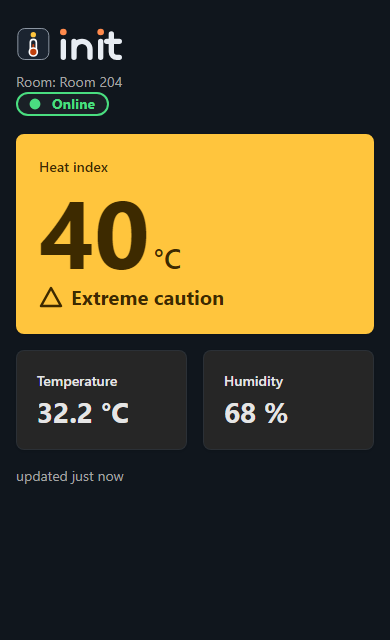
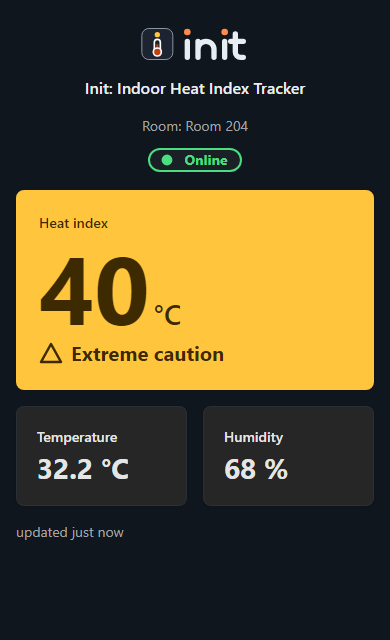
P04-05 design: centred header with title line and more space, README check skips dist

diff --git a/design/pwa/header.html b/design/pwa/header.html
@@ -36,7 +36,7 @@
   <path stroke="#e8edf3" stroke-width="16" stroke-linecap="round" stroke-linejoin="round" fill="none" d="M20 52V100M52 52V100M52 76A24 24 0 0 1 100 76V100M132 52V100M164 30V84A16 16 0 0 0 180 100H188M150 52H188"/>
   <circle cx="20" cy="24" r="10" fill="#ff8a4c"/><circle cx="132" cy="24" r="10" fill="#ff8a4c"/>
 </g>
-</svg></span></span><h1 class="visually-hidden">Init</h1><p class="text-secondary">Room: Room 204</p>
+</svg></span></span><h1 class="app-fullname">Init: Indoor Heat Index Tracker</h1><p class="text-secondary app-room">Room: Room 204</p>
     <p class="status status-online" role="status"><svg viewBox="0 0 24 24" aria-hidden="true"><circle class="dot" cx="12" cy="12" r="6"/></svg>Online</p></header>
   <section class="card heat heat-extreme-caution" aria-label="Heat index"><div class="card-body">
     <p class="app-label">Heat index</p>

diff --git a/design/pwa/installed.html b/design/pwa/installed.html
@@ -37,7 +37,7 @@
   <path stroke="#e8edf3" stroke-width="16" stroke-linecap="round" stroke-linejoin="round" fill="none" d="M20 52V100M52 52V100M52 76A24 24 0 0 1 100 76V100M132 52V100M164 30V84A16 16 0 0 0 180 100H188M150 52H188"/>
   <circle cx="20" cy="24" r="10" fill="#ff8a4c"/><circle cx="132" cy="24" r="10" fill="#ff8a4c"/>
 </g>
-</svg></span></span><h1 class="visually-hidden">Init</h1><p class="text-secondary">Room: Room 204</p>
+</svg></span></span><h1 class="app-fullname">Init: Indoor Heat Index Tracker</h1><p class="text-secondary app-room">Room: Room 204</p>
     <p class="status status-online" role="status"><svg viewBox="0 0 24 24" aria-hidden="true"><circle class="dot" cx="12" cy="12" r="6"/></svg>Online</p></header>
   <section class="card heat heat-extreme-caution" aria-label="Heat index"><div class="card-body">
     <p class="app-label">Heat index</p>

diff --git a/design/pwa/pwa.css b/design/pwa/pwa.css
@@ -1,6 +1,10 @@
 /* Mock-only styles for design/pwa/ (the real app gets .app-logo from web/src/app.css once approved). */
-.app-logo { display: block; margin: 0 0 8px; }
+.app-head { text-align: center; }
+.app-logo { display: flex; justify-content: center; margin: 0 0 8px; }
 .app-logo svg { display: block; height: 40px; width: auto; }
+.app-fullname { font-size: 16px; font-weight: 600; margin: 0 0 12px; }
+.app-room { margin-bottom: 12px !important; }
+.app-head .status { display: inline-flex; }
 .logo-for-dark { display: none; }
 [data-bs-theme="dark"] .logo-for-light { display: none; }
 [data-bs-theme="dark"] .logo-for-dark { display: inline; }

diff --git a/design/pwa/README.md b/design/pwa/README.md
@@ -1,6 +1,6 @@
 # design/pwa/
 
-**Awaiting owner approval (P04-05, F-05, D-016).** Mocks of the header logo, the icons and the installed look of the phone app. Made-up room name (`Room 204`); the logo and icon are the ones chosen in D-029 (`../brand/`).
+**Icons, theme colours and offline rule approved 2026-11-02 (s18); the revised header is awaiting approval (P04-05, F-05, D-016).** Mocks of the header logo, the icons and the installed look of the phone app. Made-up room name (`Room 204`); the logo and icon are the ones chosen in D-029 (`../brand/`).
 
 | File | What |
 |---|---|
@@ -12,7 +12,7 @@
 | `ref/` | The screenshots to approve |
 
 ## What is proposed
-- **Header:** the approved logo (icon + `init` wordmark, 40 px high) replaces the text title; light and dark logo follow the phone setting. Room and the Online badge stay under it. This changes the top of every page image, so the home, badge and history mocks and their reference images are redrawn after approval, then the gates run again.
+- **Header (revised after the owner's note, s18):** centred. The approved logo (icon + `init` wordmark, 40 px high) on top, then the title line **Init: Indoor Heat Index Tracker** (the short form of the full name in D-029; the long form is too long for a phone line), then the room, then the Online badge, with a little more space between room and badge. Light and dark logo follow the phone setting. This changes the top of every page image, so the home, badge and history mocks and their reference images are redrawn after approval, then the gates run again.
 - **Icons:** drawn from the approved icon only. Rounded one for the favicon and "any"; a full-square one with the thermometer at 85 % so Android's circle or squircle never cuts it; a full-square one for iPhone (it rounds the corners itself).
 - **Theme colours:** the status bar takes the page colour: `#f6f7f9` in light, `#10161d` in dark. The start-up screen background is `#10161d`.
 - **Installed app:** opens full screen with no browser bar, same page.
